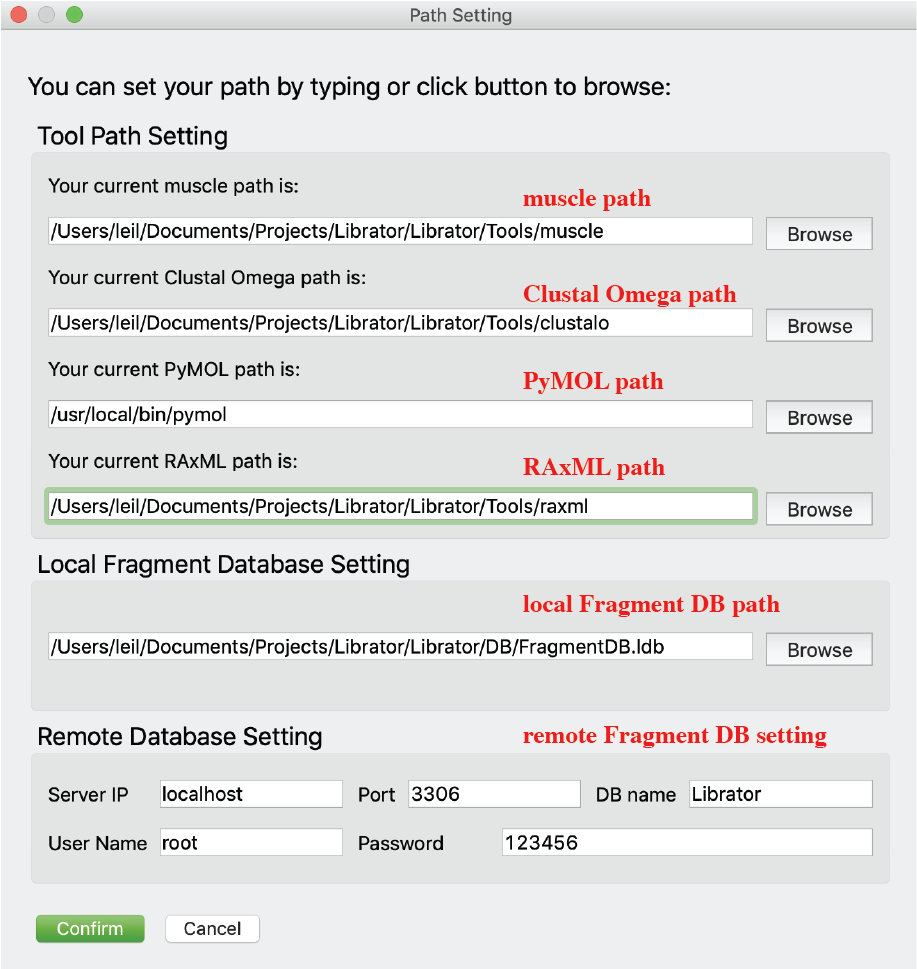
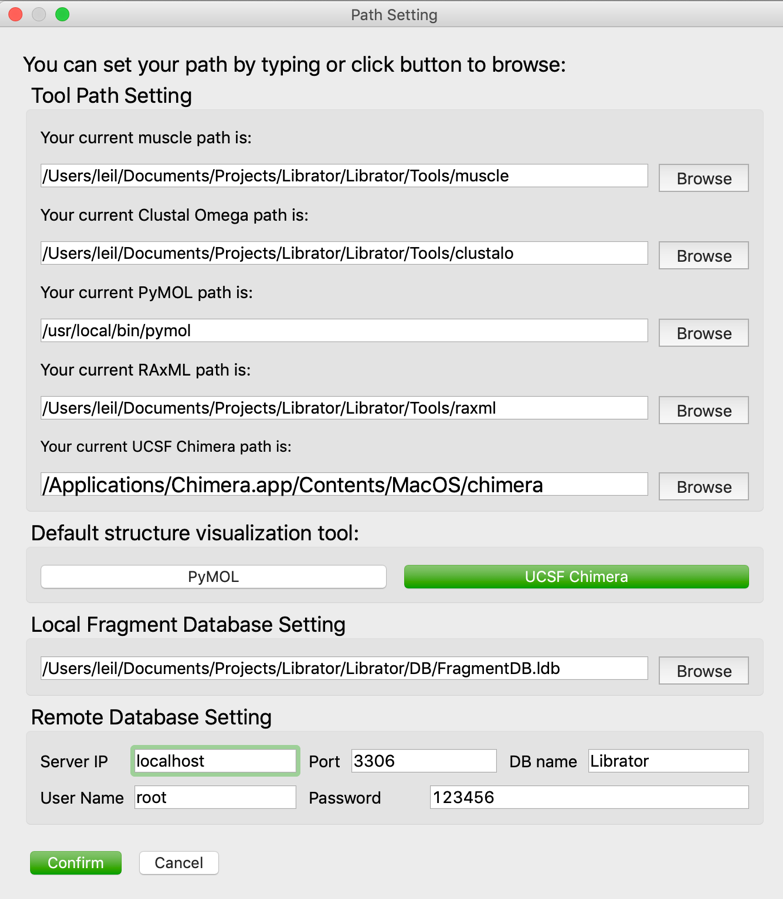
update docs

diff --git a/docs/tutorial.html b/docs/tutorial.html
@@ -60,10 +60,12 @@ div.navbox {
   z-index: 999;
   top: 56px;
   padding-left: 30px;
+  margin-bottom: 100px;
 }
 
 .img {
   box-shadow: 10px 10px 5px #888888;
+  margin-bottom: 30px;
 }
 
 .left{
@@ -162,38 +164,48 @@ $(document).ready(function(){
     <ul>
       <li>
         <a class="title">Main Tab</a>
-        <p class="text">Users can set paths for all required tools and databases.</p>
+        <p class="text">This is the main page of librator. Users are allowed to load existing database, browse, active, edit and manage their sequences. Users can check records in the “Available sequence” panel to active them. Users are also allowed to inactive a sequence by double click it in “Active sequences” panel or uncheck it in the “Available sequence” panel. Users should set a “base sequence” for the database. It unique and changeable. It is the current target/template of most operations. </p>
         <img class="img" src="img/MainTab.png" style="width: 50%">
       </li>
       <li>
         <a class="title">Sequence Tab</a>
-        <p class="text">Users can set paths for all required tools and databases.</p>
+        <p class="text">This page shows HA numbering details of current selected sequence. Mutation info, antigenic sites and donor region info will be displayed in the sequence viewer.</p>
         <img class="img" src="img/SequenceTab.png" style="width: 50%">
       </li>
       <li>
         <a class="title">Alignment Tab (HTML)</a>
-        <p class="text">Users can set paths for all required tools and databases.</p>
-        <img class="img" src="img/AlignmentHTML.png" style="width: 90%">
+        <p class="text">This sequence alignment viewer shows the multiple sequence alignment (MSA) for selected sequences (It also works for one sequence).  There are two display modes: original mode shows all nucleotides and peptides; template mode will only highlight sequence differences. A red rectangle indicates current focus residue (mouse position) and will automatically display HA numbering information of current residue. </p>
+        <img class="img" src="img/AlignmentHTML.png" style="width: 70%">
       </li>
       <li>
         <a class="title">Sequence DB Tab</a>
-        <p class="text">Users can set paths for all required tools and databases.</p>
-        <img class="img" src="img/SequenceDBTab.png" style="width: 90%">
+        <p class="text">This tab shows all sequence in current database in a table viewer. Users can enable information edit in this viewer by click the Edit lock. Then users can double click any cell to update the information. Please only edit it when you know what you’re doing. Otherwise it will cause errors or crashes. </p>
+        <img class="img" src="img/SequenceDBTab.png" style="width: 70%">
+      </li>
+      <li>
+        <a class="title">Sequence Logo Tab</a>
+        <p class="text">In this tab, we integrated “Sequence Logo” (http://weblogo.threeplusone.com/) to calculate and visualize sequence conservation. Users are allowed to calculate either peptide conservation and nucleotide conservation for their selected sequences. Users are also allowed to visualize the peptide conservation of their selected sequences on a 3D HA structure. Users can choose preferred color schema, then click “Peptide conservation” button. This function is only available for HA sequence for now. If you didn’t install GhostScript and Pdf2svg, the sequence logo will be displayed in a popped-up window.</p>
+        <img class="img" src="img/peptideConserve.png" style="width: 50%">
       </li>
       <li>
         <a class="title">Summary Tab</a>
-        <p class="text">Users can set paths for all required tools and databases.</p>
-        <img class="img" src="img/SummaryTab.png" style="width: 90%">
+        <p class="text">These two tabs show a summary of current database. Notably, the bottom Amino Acid variation STAT is based on all historical H1, H3 and NA sequences (not sequences in current database).</p>
+        <img class="img" src="img/SummaryTab.png" style="width: 70%">
       </li>
       <li>
         <a class="title">Summary Tab (HTML)</a>
-        <p class="text">Users can set paths for all required tools and databases.</p>
-        <img class="img" src="img/SummaryHTMLTab.png" style="width: 90%">
+        <p class="text">These two tabs show a summary of current database. Notably, the bottom Amino Acid variation STAT is based on all historical H1, H3 and NA sequences (not sequences in current database).</p>
+        <img class="img" src="img/SummaryHTMLTab.png" style="width: 70%">
       </li>
       <li>
         <a class="title">Fragment DB Tab</a>
-        <p class="text">Users can set paths for all required tools and databases.</p>
-        <img class="img" src="img/FragmentDBTab.png" style="width: 90%">
+        <p class="text">This tab was designed for Lab managers to manage their lab reagent stock. Users are allowed to connect to a local database or a remote MySQL database. When ordered sequences/fragments arrived, they can just change its “In stock” status to “Yes”, and vice versa. </p>
+        <img class="img" src="img/FragmentDBTab.png" style="width: 70%">
+      </li>
+      <li>
+        <a class="title">FLU DB HA numbering Tab</a>
+        <p class="text">Beside structure-based H1/H3 numbering system utilized in Librator, there is another HA numbering system in this field. This HA numbering scheme was proposed in 2004 and has been implemented by FLU DB recently. This numbering system aligns query sequence against a few template sequences and then assign position number of residues according to the alignment. This tab was designed for FLU DB HA numbering scheme. Users are allowed to align a query sequence to multiple template sequences of different HA subtypes to determine residue numbers.</p>
+        <img class="img" src="img/FLUDBnumberingTab.png" style="width: 50%">
       </li>
     </ul>
     <h1>Functions</h1>
@@ -201,7 +213,7 @@ $(document).ready(function(){
       <ul>
         <li>
           <a class="title">Path setting</a>
-          <p class="text">Users can set paths for all required tools and databases. Click Setting-> Preferences in menu</p>
+          <p class="text">Users can set paths for all required tools and databases. Click Setting-> Preferences in menu. You can type path or click Browse button to choose the correct path. You also can determine the default tool for 3D structure visualization.</p>
           <img class="img" src="img/PathSet.png" style="width: 50%">
         </li>
         <li>
@@ -227,10 +239,12 @@ $(document).ready(function(){
       </ul>
 
       <h2>Advanced functions</h2>
+      <h3>1) Sequence analysis</h3>
       <ul>
         <li>
           <a class="title">Edit information of sequences (on Main tab)</a>
           <p class="text">Users can edit information (sequence name, Role, Form, Subtype, NT sequence, reading frame, donor regions) of sequences on main tab.</p>
+          <img class="img" src="img/editSeq.png" style="width: 50%">
           <p class="text">For Sequence name, users can click sequence name text input to edit it.</p>
           <img class="img" src="img/editSeqName.png" style="width: 50%">
           <p class="text">For Role, Form, and Subtype, users can edit by the left panel. Users can select multiple sequences in active sequence panel to do bulk update.</p>
@@ -239,11 +253,30 @@ $(document).ready(function(){
           <img class="img" src="img/updateSeq.png" style="width: 50%">
           <p class="text">Note: coding region and NT sequence editing is disabled for sequences with mutation information. For donor regions information, users can click “Donor region” input to update information.</p>
         </li>
+
         <li>
-          <a class="title">HA numbering</a>
-          <p class="text">Users can access H1/H3 numbering of selected sequence. Click Tools-> HA Numbering in menu or just click “Sequence” tab</p>
+          <a class="title">HA numbering system</a>
+          <p class="text">Users are allowed to access H1/H3 numbering of selected sequence in two ways:</p>
+          <p class='text'>1)  Please select your sequence on active sequence panel and then click Tools-> HA Numbering in menu, or just click “Sequence” tab. Please see “Sequence” Tab for interface and details. </p>
           <img class="img" src="img/SequenceTab.png" style="width: 50%">
+          <p class='text'>2)  Please select your sequence on active sequence panel and then click “Alignment” tab. This interface is interactive, please mouse over your interested residues for more details. A red rectangle will always indicate your current focus. On the H1/H3 numbering ruler, antibody binding sites (ABS), receptor binding sites (RBS) are highlighted by different colors and patterns.</p>
+          <img class="img" src="img/SequenceTab1.png" style="width: 50%">
         </li>
+
+        <li>
+          <a class="title">HA epitopes customization</a>
+          <p class="text">We also allow users to customize their epitope settings. Users can setup their epitope settings by clicking Settings -> User defined epitopes. </p>
+          <p class='text'>There are two tabs on the UI, users are allowed to modify current annotation groups or current annotation of each residue.</p>
+          <p class='text'>There is a combo box for users to switch between H1 and H3 numbering. Users are allowed to pick different colors, shades and borders for their own groups. For example, colors for multiple antigen binding sites (e.g. ABS-A,B,C,D,E), shades for epitopes adopted from literature (e.g. lateral patch), borders for receptor binding sites (e.g. 130loop, 150loop, 190 helix…). </p>
+          <p class='text'>There is also an option for users to restore default settings for H1 or H3. As shown in the following figure, we pre-defined 13 distinct colors, 4 shade patterns and 3 border styles for users to define their own epitopes. Different colors, shade patterns and borders can be superimposed to denote residues in multiple epitope groups.</p>
+          <img class="img" src="img/epitop1.png" style="width: 50%">
+          <p class='text'>After setup their own epitopes, users are allowed to annotate each residue using different color groups, shade groups and border groups.   As shown in the following figure, users can determine each individual residue into different color groups, shade groups and border groups by simply clicking the combo box. The graphic icons in combo box help users to easily recognize different epitopes and their current settings.</p>
+          <img class="img" src="img/epitope2.png" style="width: 50%">
+          <p class='text'>After correctly setup your own epitopes, you can easily visualize those epitopes on sequence viewer.</p>
+          <img class="img" src="img/epitope3.png" style="width: 50%">
+          <p class='text'> </p>
+        </li>
+
         <li>
           <a class="title">Multiple sequence alignment</a>
           <p class="text">Users can align multiple sequences together and check the results in a graphical viewer. Click Tools-> Multiple Alignment(HTML) in menu. There are two display modes: original sequence mode and template mode. In template mode, users can choose any sequence (including consensus sequence) as template to only highlight sequence difference.</p>
@@ -251,55 +284,84 @@ $(document).ready(function(){
         </li>
         <li>
           <a class="title">Generate phylogenetic tree (ML tree)</a>
-          <p class="text">Users can generate phylogenetic tree (Maximum Likelihood tree) for selected sequences. Nucleotide and Amino Acid trees are available. For Nucleotide tree: Click Tools-> Generate Maximum Likelihood Tree (nucleotide) in menu; For Amino acid tree: Click Tools-> Generate Maximum Likelihood Tree (Amino Acid) in menu. </p>
+          <p class="text">Users can generate sequence logo for multiple selected sequences. Users should select multiple sequence in main page, then click “Seq logo” tab. On “Seq logo” tab, users can click Peptide logo or Nucleotide logo to generate sequences logos (Panel A). Users also can check the checkbox called “open Sequence logo on a popup window” to view the sequence logo on a popup window and then can be saved as an EPS file (vector graph) for further use.   Users also can click the button on the right top corner to visualize peptide conservations for selected sequences on a 3D structure using PyMOL (panel B) or UCSF Chimera (Figure not shown). The structure annotation code will also be displayed in a pop-up window. </p>
           <img class="img" src="img/tree.png" style="width: 90%">
           <img class="img" src="img/tree1.png" style="width: 90%">
         </li>
         <li>
-          <a class="title">Mutate sequence</a>
-          <p class="text">Users can generated new sequences with mutations based on any existing sequence. Click Edit Sequence-> Mutation in menu. As shown below, users can generate mutations on a template sequence using either original position (count from first amino acid, panel A) or H1/H3 numbering (H1 numbering for group1 virus and H3 numbering for group2 virus, panel B). H1/H3 numbering function is only enabled for HA sequences of FLU A. Users are allowed to input multiple mutations at the same time, and are allowed to decide from two options: 1) generate one sequence with all mutations; 2) generate multiple sequences, each of them with a single mutation. After the mutated sequence was generated, users can visualize the 3D structure (only enabled for HA now) of generated HA protein (panel C).</p>
-          <img class="img" src="img/MUTATION.png" style="width: 90%">
+          <a class="title">Generate sequence Logo (peptide/nucleotide conservation)</a>
+          <p class="text">Users can generate phylogenetic tree (Maximum Likelihood tree) for selected sequences. Nucleotide and Amino Acid trees are available. For Nucleotide tree: Click Tools-> Generate Maximum Likelihood Tree (nucleotide) in menu; For Amino acid tree: Click Tools-> Generate Maximum Likelihood Tree (Amino Acid) in menu. </p>
+          <img class="img" src="img/mylogo1.png">
+          <p class="text">Of note, for better visualization, we provide two options for peptide conservation on 3D structure: “Global Max” and “Local Max”. We quantify the amino acid variations by an amino acid variation entropy function (Crooks GE. et al, Genome Research, 14:1188-1190, 2004).</p>
+          <p class="text">In this peptide variations index, the min value is 0, indicates lowest variation, and the max value is 4.32, indicates highest variation. However, 4.32 is just theoretic max value and is not reachable in practices. For some datasets, using the theoretic max (4.32) will fail to emphasize the difference among all residues. Here, we proposed two schemes: “Global Max” and “Local Max”. In “Global Max” mode, all values will be normalized into [0,1] by dividing 4.32. In “Local Max” mode, all values will be normalized into [0,1] by dividing its own max values. The following figure shows the difference between the two modes. Of note, two models generated under “Local Max” mode is usually not comparable to each other because they used different max value to normalize their entropy values. But, “Local Max” mode usually can improve the visualization results.</p>
+          <img class="img" src="img/mylogo2.png">
         </li>
         <li>
-          <a class="title">Compare sequences and generate screening mutations</a>
-          <p class="text">Users can compare sequences and generate consensus sequences (Base biased) or new sequences with screening mutations (Cocktail). Click Edit Sequence-> Editing in menu. Cocktail mode (A): Compare base sequence to another sequence, identify all mutations between two sequences on donor region of donor sequence (user can setup donor region on this interface), then generate new sequences with those mutations using base sequence as template. Users can choose to only generate sequences with single mutations or all combinations of mutations. Base biased mode (B): Generate consensus sequences of base sequence and selected sequences. For each donor sequence, only their donor region will be considered (full sequence will be considered when donor region is none).</p>
-          <img class="img" src="img/edit.png" style="width: 90%">
-        </li>
-        <li>
-          <a class="title">Epitope transplant across different subtypes</a>
-          <p class="text">Users can transplant epitopes/regions from sequences of different subtypes. Regions being removed from base sequence and that being inserted from donor sequence are not necessary to have same length. Users can add multiple replacements on one sequence (click ‘Add’). Those replacements could be from different sequences. Users can review the replacement design in the bottom window. Users can double click replacement to delete it. Users also can click ‘Clear’ button to rest current design. Click Edit Sequence-> Fusion in menu. This window has two layouts: high resolution layout and low resolution layout. Liberator will automatically choose the best fit based on current display resolution. Users also can click Edit Sequence-> Fusion (high resolution) or Edit Sequence-> Fusion (low resolution) to determine the layouts they prefer (As shown below).</p>
-          <img class="img" src="img/fusionH.png" style="width: 90%">
-          <img class="img" src="img/fusionL.png" style="width: 50%">
-        </li>
-        <li>
-          <a class="title">3D visualization via PyMOL</a>
-          <p class="text">Users can see 3D structure of selected sequence via PyMOL (only for HA). Click Visualization-> PyMOL in menu. </p>
-          <img class="img" src="img/PyMOL.png" style="width: 90%">
-        </li>
-        <li>
-          <a class="title">Generate Gibson Clone fragments</a>
-          <p class="text">Users can generate Gibson Clone Fragments. Users can select sequences, determine fragment DB, output path, and joint region plan (panel A), after click “Generate Fragments” button, a dialog will pop up for users to review and confirm (panel B). On panel B, users can review the generated Fragments (both amino acid sequences and nucleotide sequences), joint regions that shared by neighbor fragments are highlighted. Joint region that connect fragment 1 and 4 to the vector not displayed for AA sequences but can be found in NT sequences. ‘-’ in AA alignments indicate incomplete sequences or deletions and will be deleted in NT fragments. Users can click “confirm” button to generate fragments after they confirmed current fragments. After a few second, a notice will be popped up with summarized results (panel C).</p>
-          <img class="img" src="img/Gibson.png" style="width: 50%">
-        </li>
-        <li>
-          <a class="title">Generate Gibson Clone fragments for any sequence</a>
-          <p class="text">Beside HA/NA sequences, Librator also allows users to split any of their sequences into fragments. Users can use this function for some frontier and novel research, e.g. COVID-19. 
-          Users can click GibsonClone-> GibsonClone for single sequence in menu. Users can view their sequence and add at most 12 joint regions (where to split the sequence) to their sequence. Then users can preview the fragment products under current design. After that, users can setup upstream connector sequence and downstream connector sequence and output path.
-          </p>
-          <img class="img" src="img/GibsonAny.png" style="width: 50%">
+          <a class="title">3D visualization via PyMOL or UCSF Chimera</a>
+          <p class="text">Users can see 3D structure of selected sequence via PyMOL or UCSF Chimera (only for HA). Click 3D Visualization on main interface. </p>
+          <img class="img" src="img/PyMOL.png" style="width: 70%">
+          <img class="img" src="img/UCSF.png" style="width: 70%">
         </li>
         <li>
           <a class="title">Identify possible key residues from two groups of sequences</a>
-          <p class="text">Librator allows users to identify possible key residues from two groups of sequences. This function could be helpful in the case of identifying key residues that potentially responsible for antigenic change or antibody binding.  
-          Users can click Tools-> Identify key residues in menu. Users can double click sequence names on the left panel to add them into positive group or negative group to the right. Users can click the corresponding arrow to change the destination (green arrow indicates current destination). Users also can double click sequences on the right panel to remove them from current panel. After that, users can click ‘Identify possible key residues’ button to run analysis. The importance of residues is quantified and ranked by numerical score, which indicates the difference of amino acid composition between two groups. All residues will be listed in a table and be sorted by the score (inverse order). Multiple sequence aliment will also be popped up for users to investigate the details.
-          </p>
-          <img class="img" src="img/Picture1.png" style="width: 50%">
+          <p class="text">We also implemented an independent viewer for users to easily access the FLUDB HA numbering scheme proposed by Burke et al. since it has also been commonly used in the Influenza community (Burke, David F., et al.  PloS one 9, no. 11 (2014): e112302.). Users are allowed to align a query sequence to multiple template sequences of different HA subtypes to determine residue numbers. User can click “FLUDB HAnumbering” tab to active this function. Users are required to determine one query sequence (from active sequence list), and at least one template sequences. Then users can click “Run” to see the results. </p>
+          <p class='text'>Of note, only in this page, HA numbering is FLU DB numbering. In all other functions/pages, structure-based H1/H3 numbering is still default HA numbering scheme.</p>
+          <img class="img" src="img/fludb1.png" style="width: 50%">
+          <p class='text'>We provide “compact mode” for this viewer:</p>
+          <img class="img" src="img/fludb2.png" style="width: 50%">
+          <p class='text'>We also provide “only alignment” mode that allows users to hide numbering rulers.</p>
+          <img class="img" src="img/fludb3.png" style="width: 50%">
         </li>
 
+        <li>
+          <a class="title">FLUDB HA numbering</a>
+          <p class="text">Users can generate sequence logo for multiple selected sequences. Users should select multiple sequence in main page, then click “Seq logo” tab. On “Seq logo” tab, users can click Peptide logo or Nucleotide logo to generate sequences logos (Panel A). Users also can check the checkbox called “open Sequence logo on a popup window” to view the sequence logo on a popup window and then can be saved as an EPS file (vector graph) for further use.   Users also can click the button on the right top corner to visualize peptide conservations for selected sequences on a 3D structure using PyMOL (panel B) or UCSF Chimera (Figure not shown). The structure annotation code will also be displayed in a pop-up window. </p>
+          <img class="img" src="img/tree.png" style="width: 90%">
+          <img class="img" src="img/tree1.png" style="width: 90%">
+        </li>
       </ul>
+
+      <h3>2) Sequence editing</h3>
+        <ul>
+          <li>
+            <a class="title">Mutate sequence</a>
+            <p class="text">Users can generated new sequences with mutations based on any existing sequence. Click Edit Sequence-> Mutation in menu. As shown below, users can generate mutations on a template sequence using either original position (count from first amino acid, panel A) or H1/H3 numbering (H1 numbering for group1 virus and H3 numbering for group2 virus, panel B). H1/H3 numbering function is only enabled for HA sequences of FLU A. Users are allowed to input multiple mutations at the same time, and are allowed to decide from two options: 1) generate one sequence with all mutations; 2) generate multiple sequences, each of them with a single mutation. After the mutated sequence was generated, users can visualize the 3D structure (only enabled for HA now) of generated HA protein (panel C).</p>
+            <img class="img" src="img/MUTATION.png" style="width: 90%">
+          </li>
+          <li>
+            <a class="title">Antigen probe</a>
+            <p class="text">Users are allowed to generate antigen probes for given HA sequences with one-click.  Click Tools-> Antigen Probe in menu. For given sequences, Librator generates “Y98F” mutation (H3 numbering) and replace flexible linker and transmembrane region with Trimerization-Avitag-H6 sequence.This function is not available for most H16, all H17 and H18 because those subtypes have already developed natural mutation “Y98F”.</p>
+            <img class="img" src="img/probe.png" style="width: 50%">
+          </li>
+          <li>
+            <a class="title">Compare sequences and generate screening mutations</a>
+            <p class="text">Users can compare sequences and generate consensus sequences (Base biased) or new sequences with screening mutations (Cocktail). Click Edit Sequence-> Editing in menu. Cocktail mode (A): Compare base sequence to another sequence, identify all mutations between two sequences on donor region of donor sequence (user can setup donor region on this interface), then generate new sequences with those mutations using base sequence as template. Users can choose to only generate sequences with single mutations or all combinations of mutations. Base biased mode (B): Generate consensus sequences of base sequence and selected sequences. For each donor sequence, only their donor region will be considered (full sequence will be considered when donor region is none).</p>
+            <img class="img" src="img/edit.png" style="width: 90%">
+          </li>
+          <li>
+            <a class="title">Epitope transplant across different subtypes</a>
+            <p class="text">Users can transplant epitopes/regions from sequences of different subtypes. Regions being removed from base sequence and that being inserted from donor sequence are not necessary to have same length. Users can add multiple replacements on one sequence (click ‘Add’). Those replacements could be from different sequences. Users can review the replacement design in the bottom window. Users can double click replacement to delete it. Users also can click ‘Clear’ button to rest current design. Click Edit Sequence-> Fusion in menu. This window has two layouts: high resolution layout and low resolution layout. Liberator will automatically choose the best fit based on current display resolution. Users also can click Edit Sequence-> Fusion (high resolution) or Edit Sequence-> Fusion (low resolution) to determine the layouts they prefer (As shown below).</p>
+            <img class="img" src="img/fusionH.png" style="width: 90%">
+            <img class="img" src="img/fusionL.png" style="width: 50%">
+          </li>
+        </ul>
+
+        <h3>3) Gibson Clone Fragments Design</h3>
+        <ul>
+          <li>
+            <a class="title">Generate Gibson Clone fragments</a>
+            <p class="text">Users can generate Gibson Clone Fragments. Users can select sequences, determine fragment DB, output path, and joint region plan (panel A), after click “Generate Fragments” button, a dialog will pop up for users to review and confirm (panel B). On panel B, users can review the generated Fragments (both amino acid sequences and nucleotide sequences), joint regions that shared by neighbor fragments are highlighted. Joint region that connect fragment 1 and 4 to the vector not displayed for AA sequences but can be found in NT sequences. ‘-’ in AA alignments indicate incomplete sequences or deletions and will be deleted in NT fragments. Users can click “confirm” button to generate fragments after they confirmed current fragments. After a few second, a notice will be popped up with summarized results (panel C).</p>
+            <img class="img" src="img/Gibson.png" style="width: 50%">
+          </li>
+          <li>
+            <a class="title">Generate Gibson Clone fragments for any sequence</a>
+            <p class="text">Beside HA/NA sequences, Librator also allows users to split any of their sequences into fragments. Users can use this function for some frontier and novel research, e.g. COVID-19. 
+            Users can click GibsonClone-> GibsonClone for single sequence in menu. Users can view their sequence and add at most 12 joint regions (where to split the sequence) to their sequence. Then users can preview the fragment products under current design. After that, users can setup upstream connector sequence and downstream connector sequence and output path.
+            </p>
+            <img class="img" src="img/GibsonAny.png" style="width: 50%">
+          </li>
+        </ul>
   </div>
-
-
 
 </div>
 
